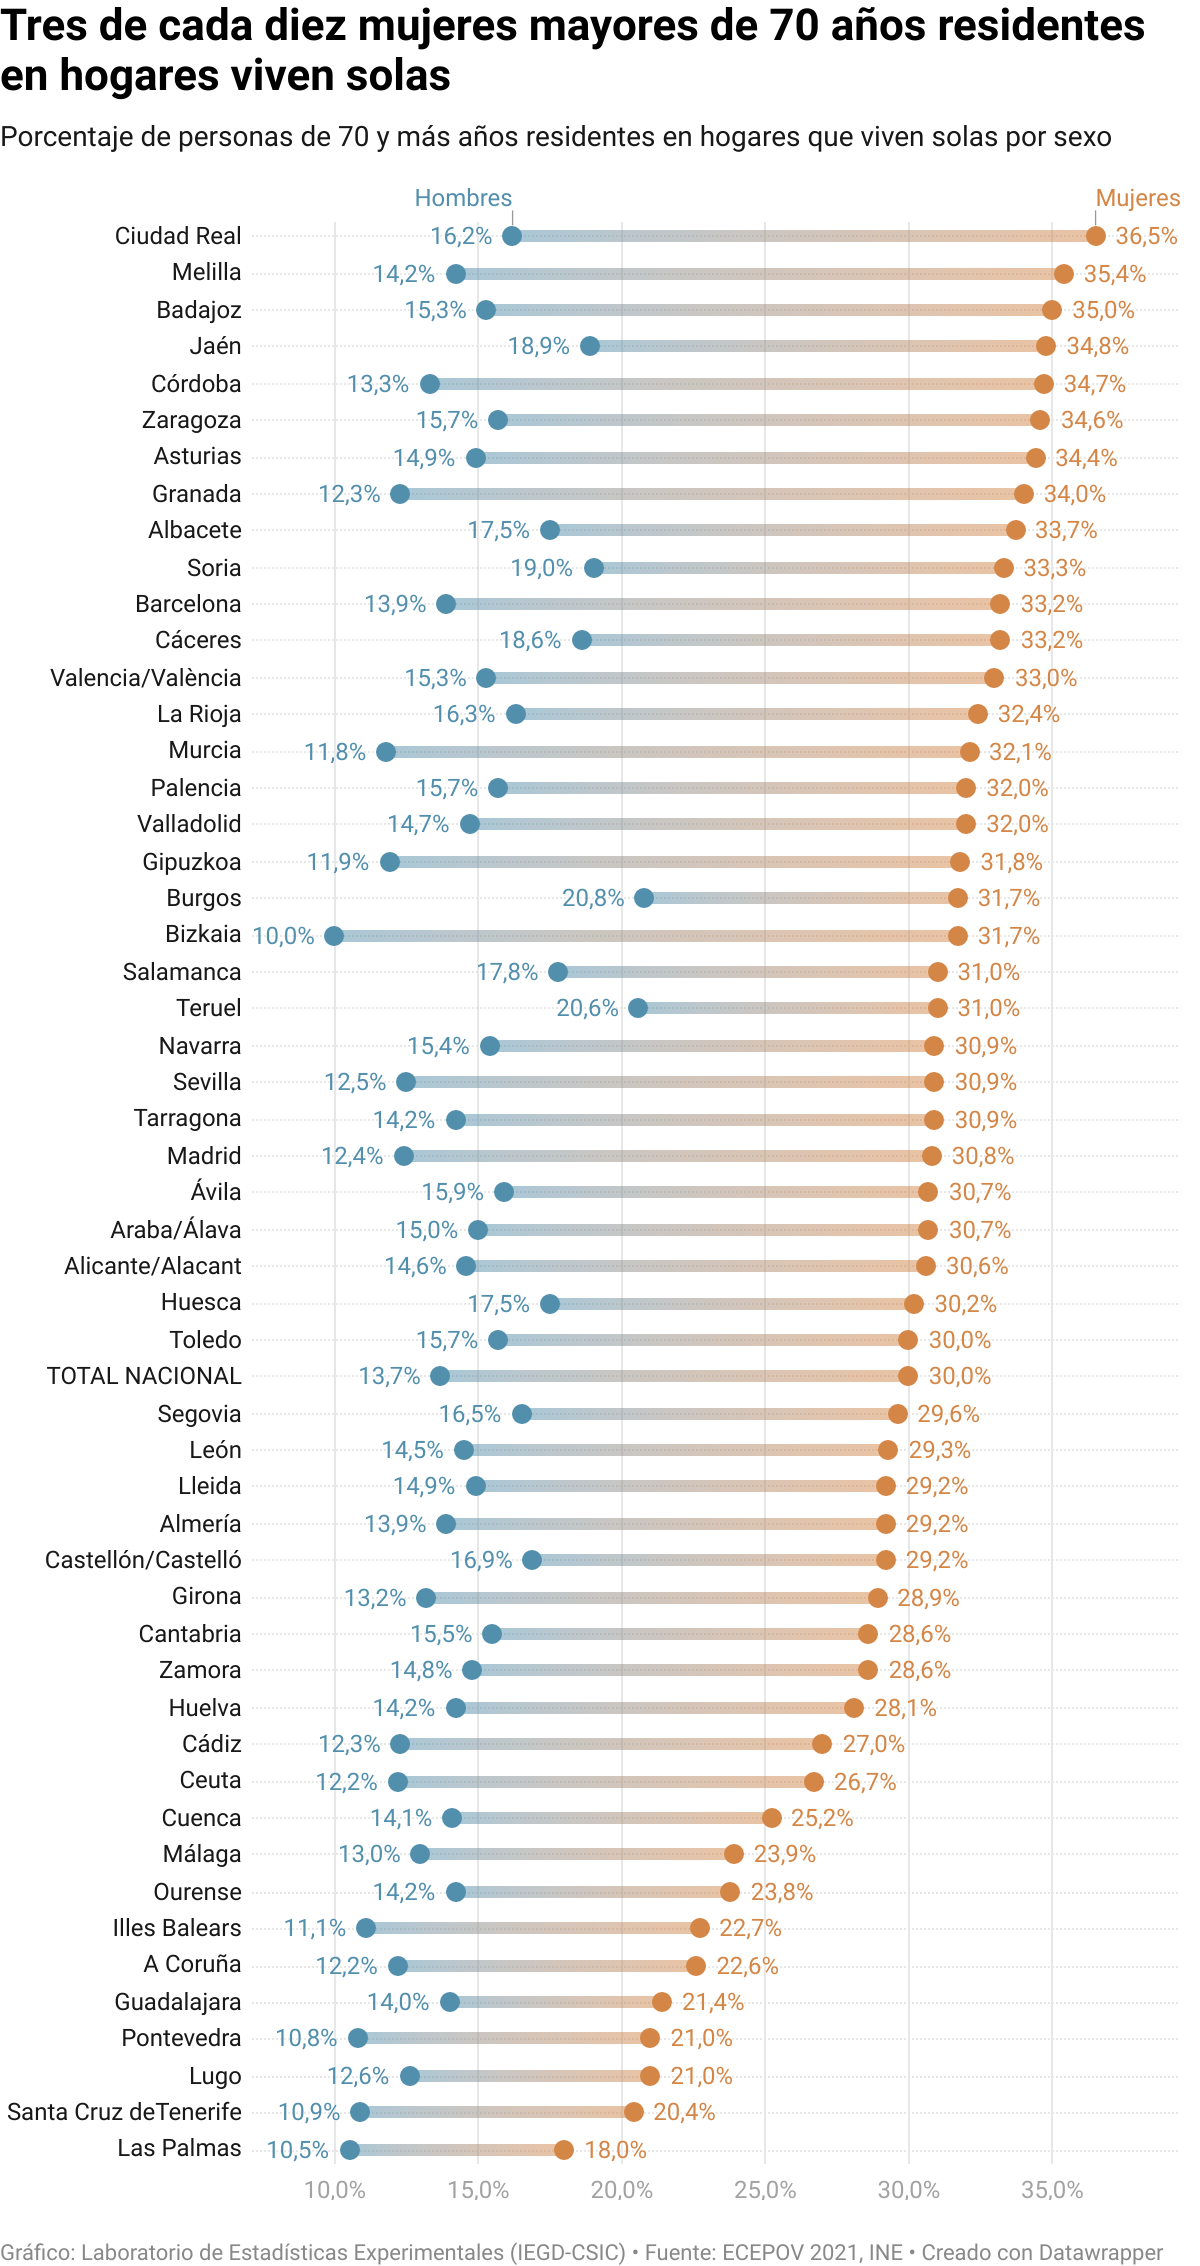
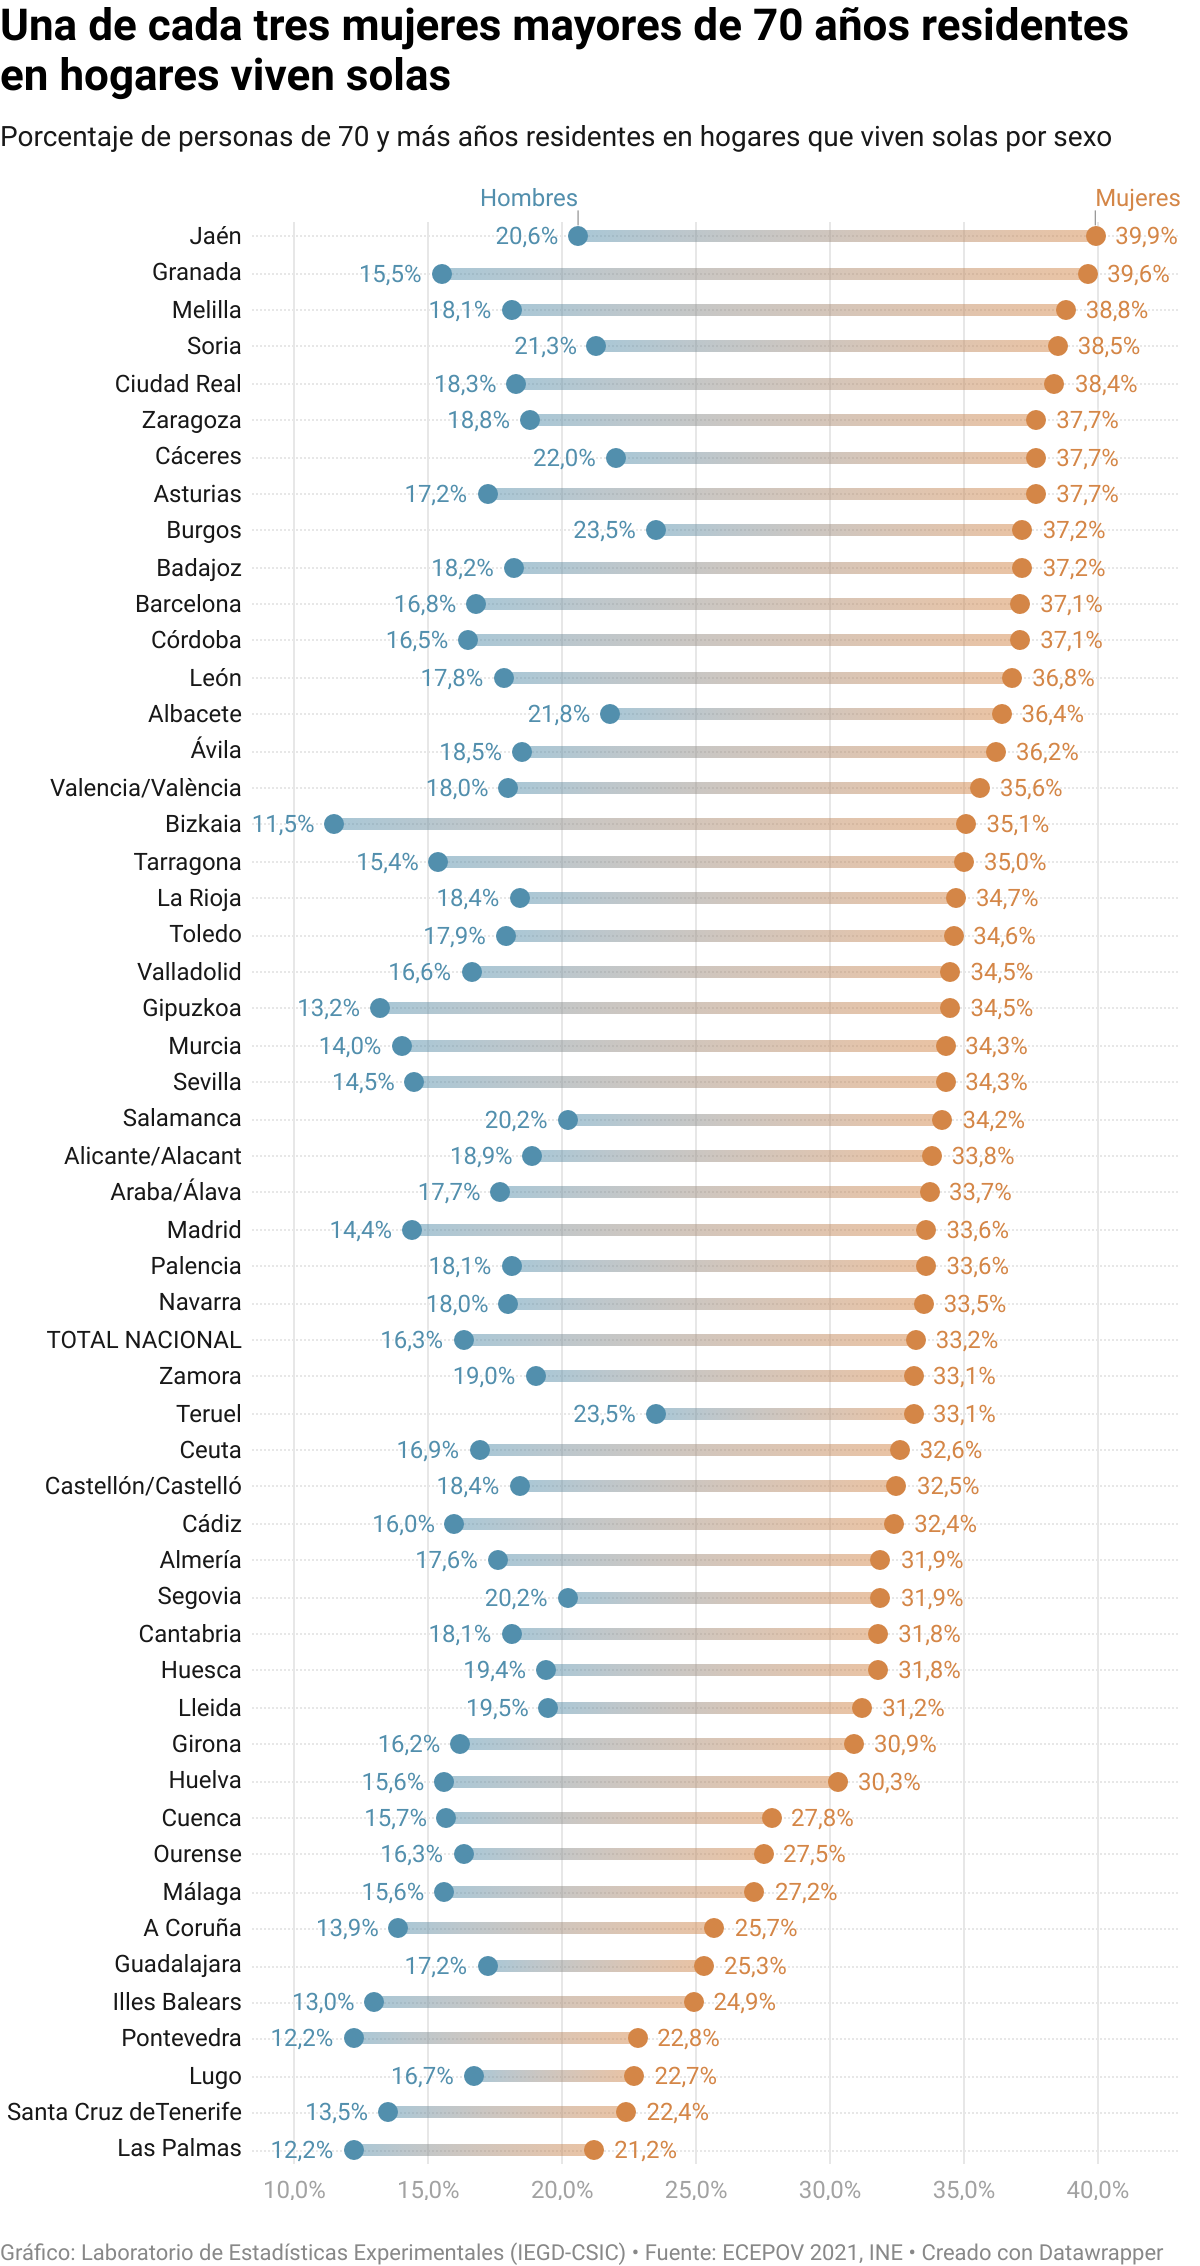
actualizado gráfico y título y fuente de index

diff --git a/index.html b/index.html
@@ -3,7 +3,7 @@
 <head>
     <meta charset="UTF-8">
     <meta name="viewport" content="width=device-width, initial-scale=1.0, maximum-scale=1.0">
-    <title>Tres de cada diez mujeres mayores de 70 años residentes en hogares viven solas</title> <!-- MODIFICAR -->
+    <title>Una de cada tres mujeres mayores de 70 años residentes en hogares viven solas</title> <!-- MODIFICAR -->
     <link rel="stylesheet" href="https://cdnjs.cloudflare.com/ajax/libs/font-awesome/4.7.0/css/font-awesome.min.css">
     <link href="https://fonts.googleapis.com/css2?family=Montserrat:ital,wght@0,100;0,300;0,400;0,500;0,600;0,700;1,300;1,400;1,500;1,600;1,700&display=swap" rel="stylesheet">
     <link rel="stylesheet" href="./index.css">
@@ -13,7 +13,7 @@
         <section class="container container-chart active" id="chartBlock">
             <!-- Título y subtítulo -->
             <div class="bl-title">
-                <h1>Tres de cada diez mujeres mayores de 70 años residentes en hogares viven solas</h1> <!-- MODIFICAR -->
+                <h1>Una de cada tres mujeres mayores de 70 años residentes en hogares viven solas</h1> <!-- MODIFICAR -->
                 <h3>Porcentaje de personas de 70 y más años residentes en hogares que viven solas por sexo</h3> <!-- MODIFICAR -->
             </div>
     
@@ -52,7 +52,7 @@
         </section>
         <section class="container container-data">
             <h1 class="margin-bottom">Notas metodológicas</h1> <!-- MODIFICAR -->
-            <p>Los porcentajes de este gráfico se han calculado a partir de las tablas de Apoyo Social de la Encuesta de Características Esenciales de la Población y las Viviendas 2021 (ECEPOV 2021) publicadas por el Instituto Nacional de Estadística (INE) <a class="link" href="https://ine.es/dynt3/inebase/es/index.htm?padre=8993&capsel=8994" target="_blank">en el siguiente enlace</a>.</p>
+            <p>Los porcentajes de este gráfico se han calculado a partir de las tablas de <a class="link" href="https://ine.es/jaxi/Tabla.htm?tpx=56463&L=0" target="_blank">Hogares de una sola persona</a> y <a class="link" href="https://ine.es/jaxi/Tabla.htm?tpx=55430&L=0" target="_blank">Apoyo Social</a> de la Encuesta de Características Esenciales de la Población y las Viviendas 2021 (ECEPOV 2021) publicadas por el Instituto Nacional de Estadística (INE).</p>
             <p>El ámbito poblacional de la ECEPOV 2021 son las <b>personas que residen en España en viviendas familiares principales</b>, dejando fuera del ámbito de estudio a las personas residentes en establecimientos colectivos como residencias de mayores. Por ello, los porcentajes han de interpretarse como <b>personas residentes en hogares que viven solas</b> y no como proporción de personas que viven solas.</p>
             <br>
 			<h1 class="margin-bottom">Repositorio de código</h1> <!-- MODIFICAR -->
